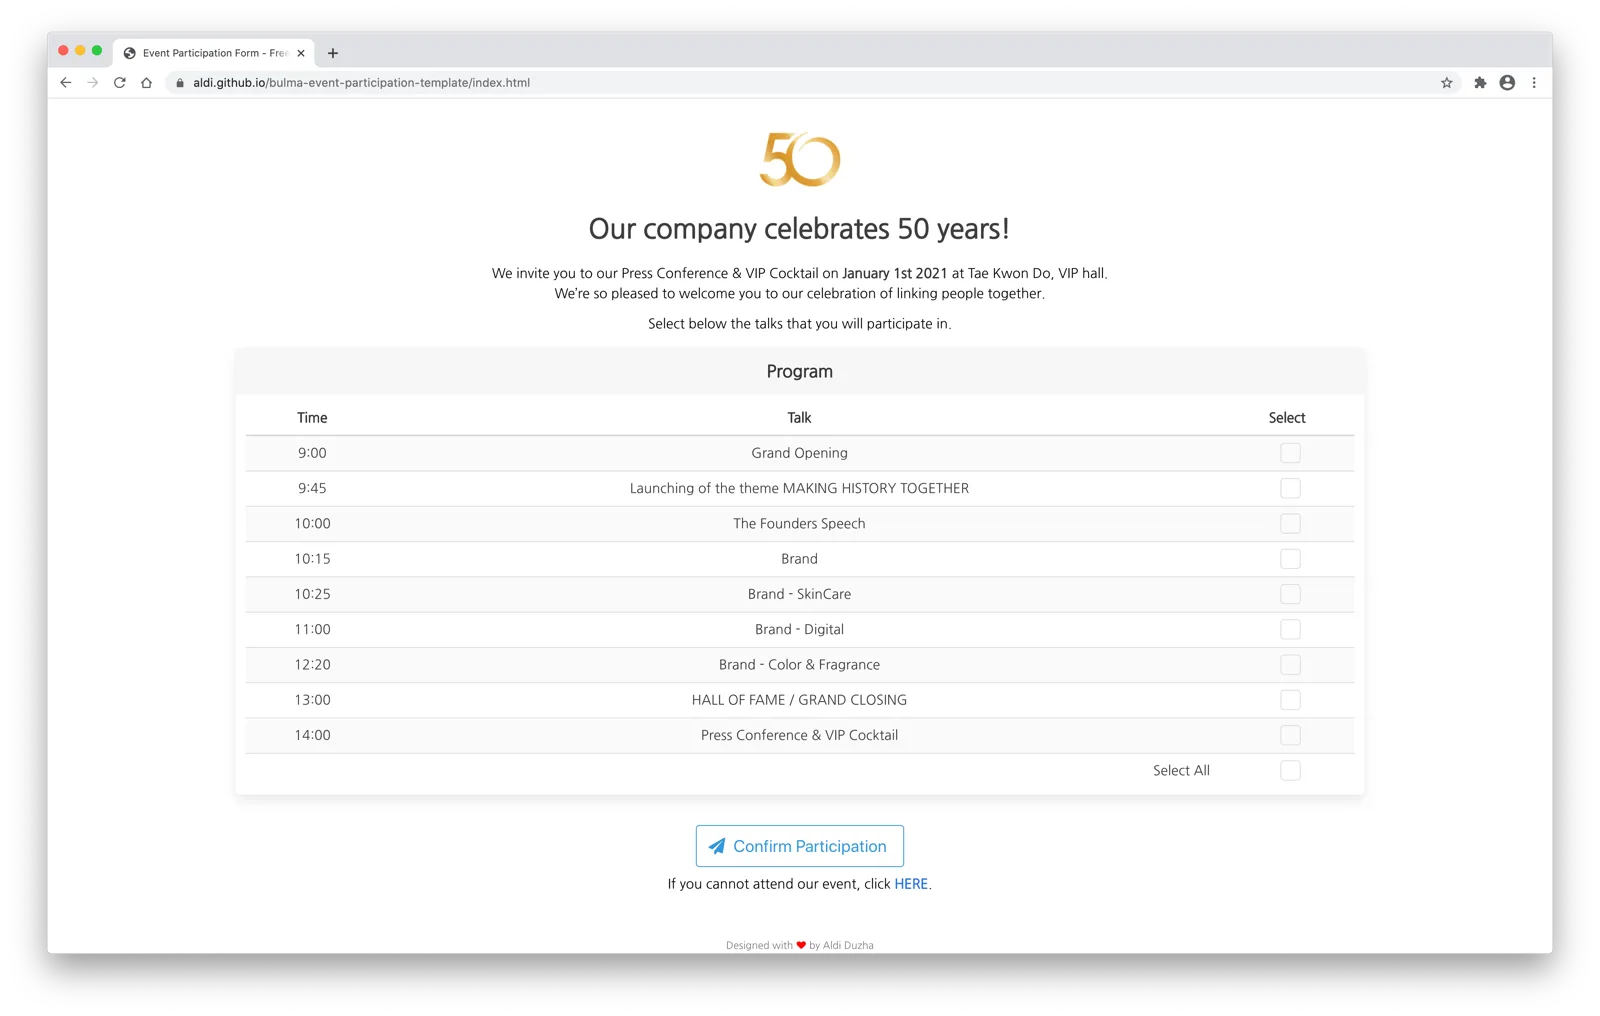
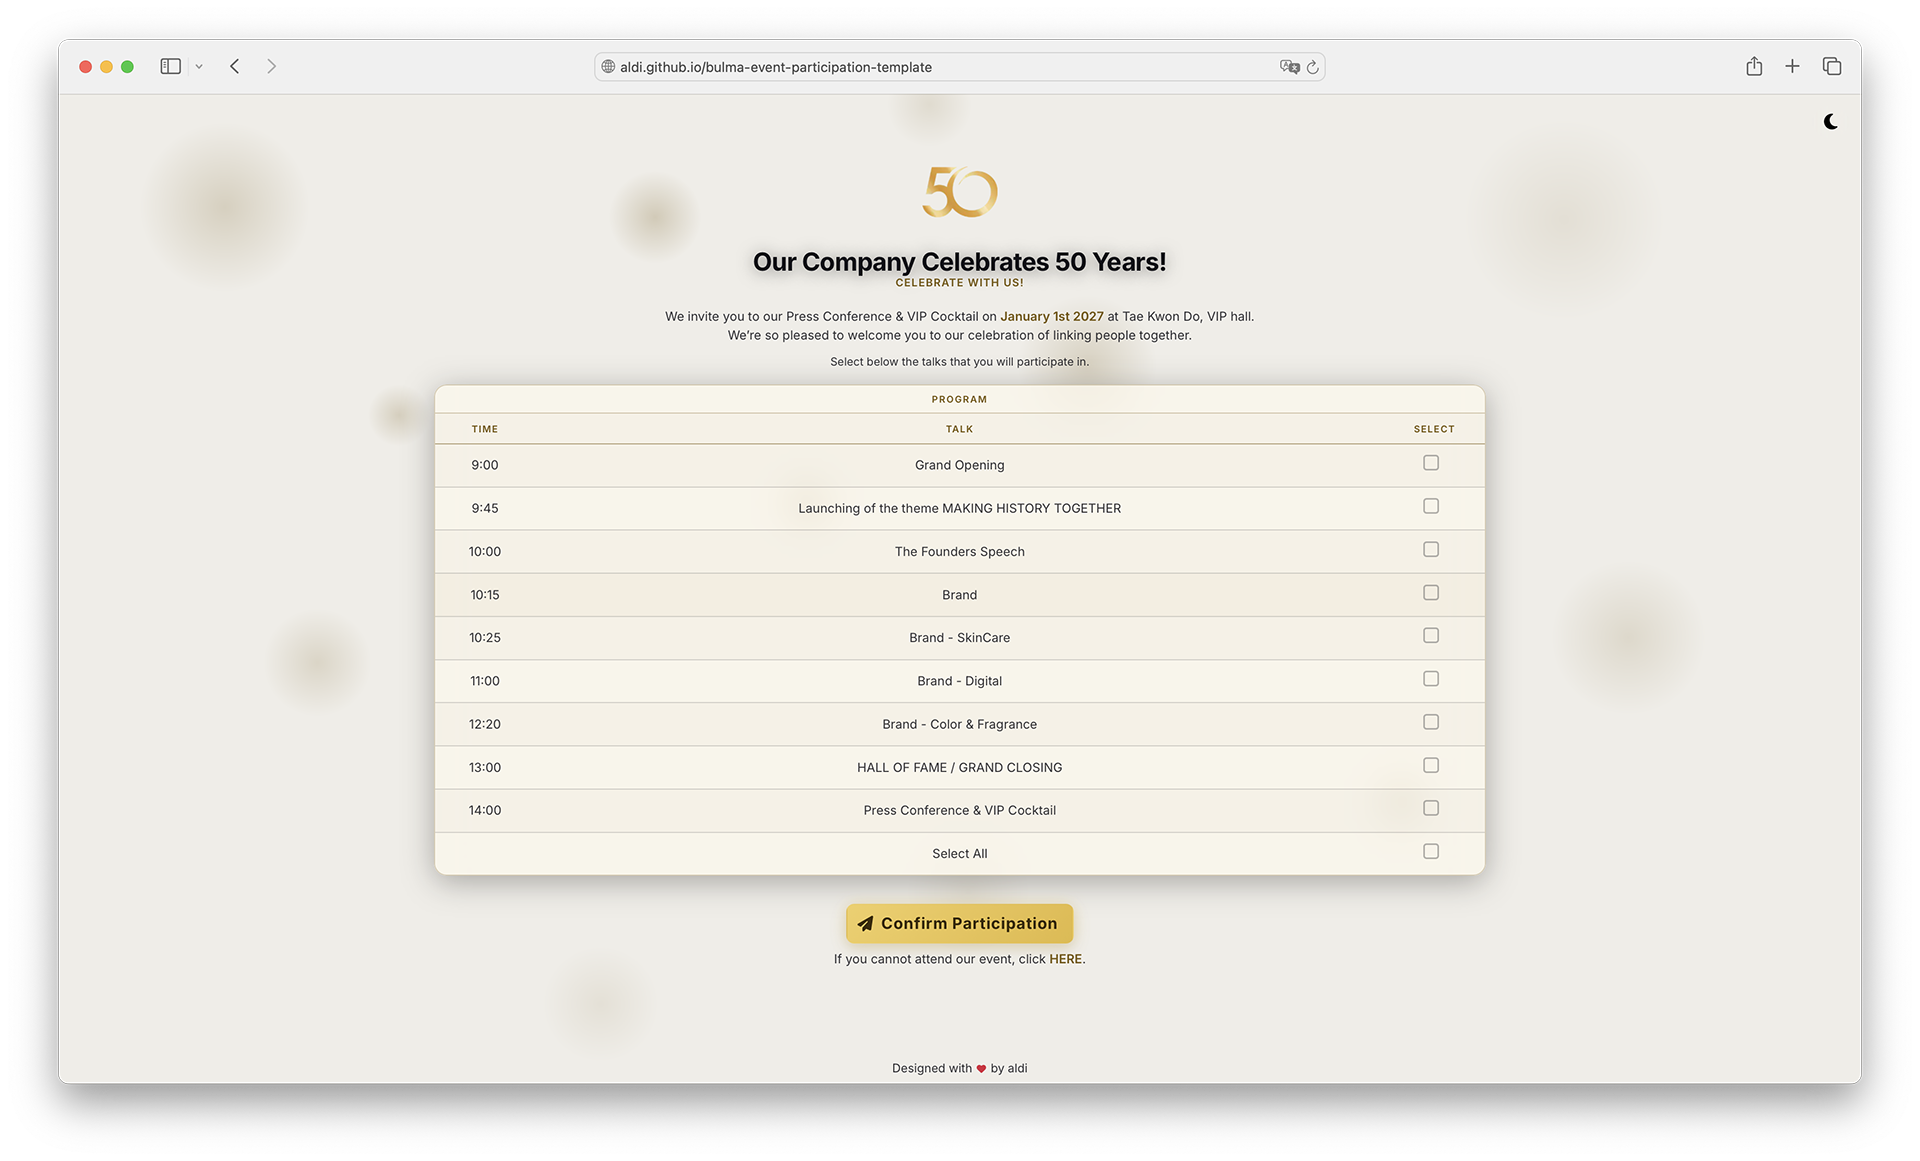
Update event participation template

diff --git a/docs/index.html b/docs/index.html
@@ -93,6 +93,32 @@
           <div class="column is-half-tablet is-half-widescreen is-one-third-fullhd">
             <article class="template-card">
               <header class="template-card-header">
+                <h2 class="template-card-title">Event Participation</h2>
+                <div class="template-card-badges">
+                  <span class="tag is-green">Updated</span>
+                  <span class="tag is-purple">Bulma v1</span>
+                </div>
+              </header>
+              <div class="template-card-image">
+                <img src="previews/event.webp" alt="Event Participation template screenshot" loading="lazy"
+                  decoding="async" width="1600" height="1016">
+              </div>
+              <footer class="template-card-footer">
+                <a href="https://aldi.github.io/bulma-event-participation-template/" class="template-card-link"
+                  target="_blank" rel="noopener noreferrer">
+                  Preview
+                </a>
+                <a href="https://github.com/aldi/bulma-event-participation-template/" class="template-card-link"
+                  target="_blank" rel="noopener noreferrer">
+                  Source Code
+                </a>
+              </footer>
+            </article>
+          </div>
+
+          <div class="column is-half-tablet is-half-widescreen is-one-third-fullhd">
+            <article class="template-card">
+              <header class="template-card-header">
                 <h2 class="template-card-title">Bulma Tropico</h2>
                 <div class="template-card-badges">
 
@@ -240,32 +266,6 @@
                 </a>
                 <a href="https://github.com/aldi/bulma-hotel-template/" class="template-card-link" target="_blank"
                   rel="noopener noreferrer">
-                  Source Code
-                </a>
-              </footer>
-            </article>
-          </div>
-
-          <div class="column is-half-tablet is-half-widescreen is-one-third-fullhd">
-            <article class="template-card">
-              <header class="template-card-header">
-                <h2 class="template-card-title">Event Participation</h2>
-                <div class="template-card-badges">
-
-                  <span class="tag is-purple">Bulma v0</span>
-                </div>
-              </header>
-              <div class="template-card-image">
-                <img src="previews/event.webp" alt="Event Participation template screenshot" loading="lazy"
-                  decoding="async" width="1600" height="1016">
-              </div>
-              <footer class="template-card-footer">
-                <a href="https://aldi.github.io/bulma-event-participation-template/" class="template-card-link"
-                  target="_blank" rel="noopener noreferrer">
-                  Preview
-                </a>
-                <a href="https://github.com/aldi/bulma-event-participation-template/" class="template-card-link"
-                  target="_blank" rel="noopener noreferrer">
                   Source Code
                 </a>
               </footer>

diff --git a/README.md b/README.md
@@ -12,6 +12,9 @@ A curated collection of free, real-world templates built with the Bulma CSS Fram
 Coming Soon Template: [Live Demo](https://aldi.github.io/bulma-coming-soon-template/) | [Source Code](https://github.com/aldi/bulma-coming-soon-template/)
 ![Coming Soon template screenshot](docs/previews/coming_soon.webp)
 
+Event Participation Template: [Live Demo](https://aldi.github.io/bulma-event-participation-template/) | [Source Code](https://github.com/aldi/bulma-event-participation-template/)
+![Event Participation template screenshot](docs/previews/event.webp)
+
 Tropico Template: [Live Demo](https://restylianos.github.io/bulma-tropico-template/) | [Source Code](https://github.com/restylianos/bulma-tropico-template)
 ![Tropico template screenshot](docs/previews/tropico.webp)
 
@@ -29,9 +32,6 @@ Rent Template: [Live Demo](https://aldi.github.io/bulma-rent-template/) | [Sourc
 
 Hotel Template: [Live Demo](https://aldi.github.io/bulma-hotel-template/) | [Source Code](https://github.com/aldi/bulma-hotel-template/)
 ![Hotel template screenshot](docs/previews/hotel.webp)
-
-Event Participation Template: [Live Demo](https://aldi.github.io/bulma-event-participation-template/) | [Source Code](https://github.com/aldi/bulma-event-participation-template/)
-![Event Participation template screenshot](docs/previews/event.webp)
 
 Each template has its own dedicated repo. This repo is for showcase purposes only.
 